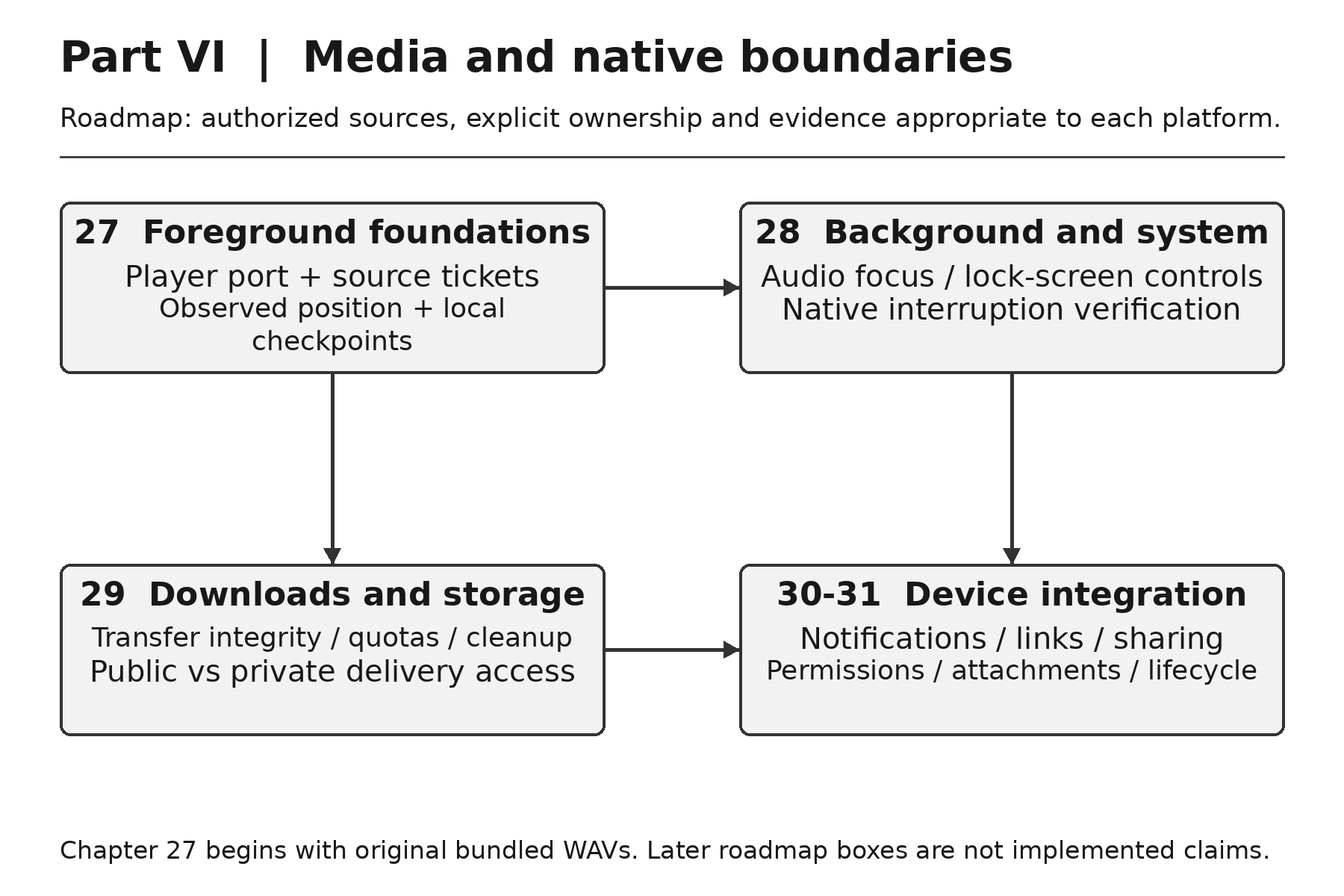
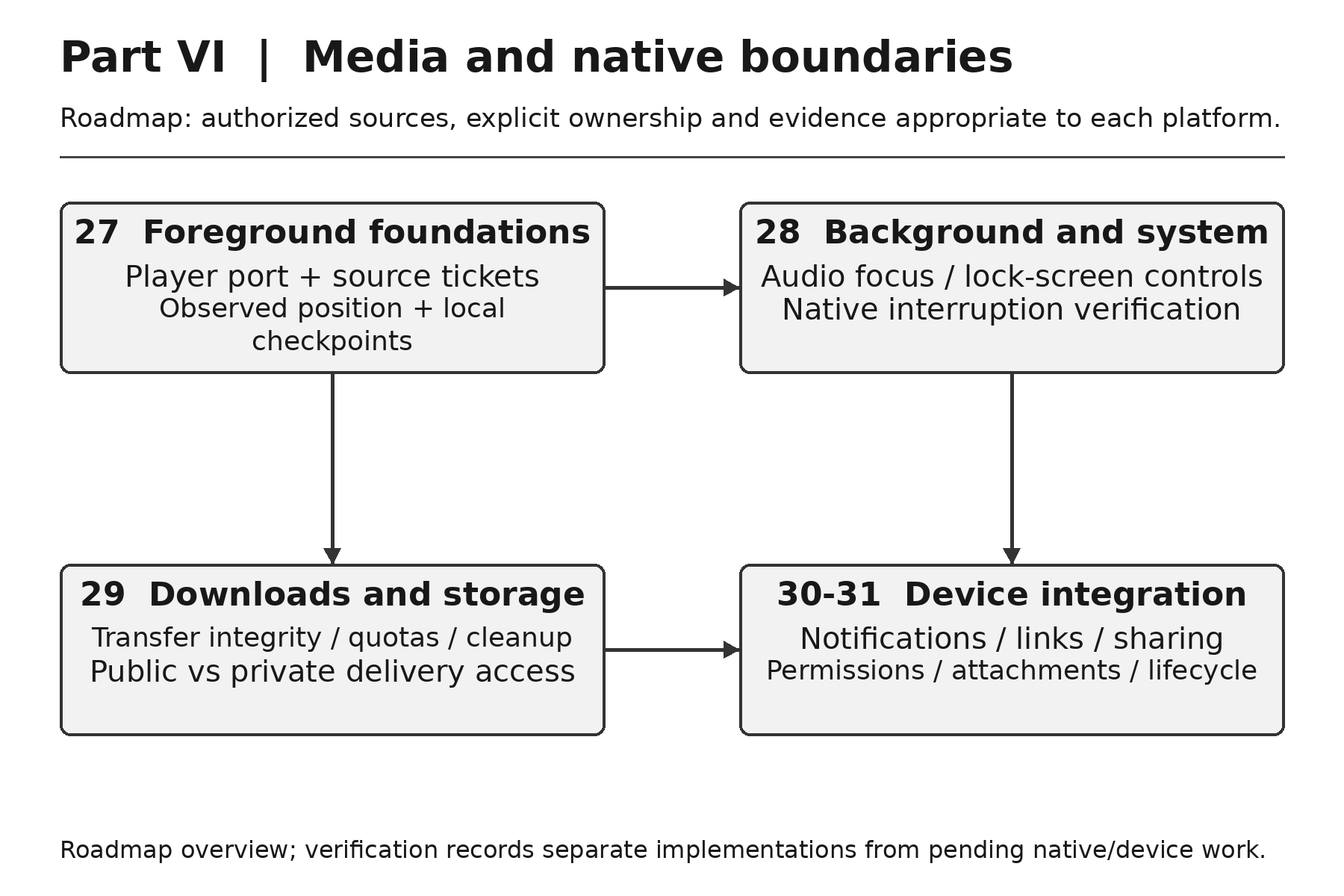
Draft Chapter 29 downloads and media storage with verification workflow

Changed region(s): [[0.0311, 0.925, 0.9333, 0.9558]]

diff --git a/production/render_opening.py b/production/render_opening.py
@@ -144,8 +144,8 @@ story=[Spacer(1,84),Paragraph('Building Mobile Apps<br/>with C# 15',styles['h1']
 toc=TableOfContents()
 toc.levelStyles=[ParagraphStyle('toc',fontName='Head',fontSize=10.5,leading=12,spaceBefore=0)]
 story.extend([Paragraph('Contents',styles['h1']),toc,PageBreak()])
-story.extend(markdown('# About This Draft\n\nThis specimen uses the selected Source Serif 4, Source Sans 3, and Source Code Pro fonts. It demonstrates the 8 × 10 page, 11-point body text, 9.5-point code, a generous binding margin, and new-page starts for major divisions.\n\nIncluded: preface, reader orientation, introduction, Parts I and II with original illustrations, the Part III introduction, Part IV with an authored planning diagram, and Chapters 1–28, with twenty-three authored architecture/workflow figures and visual recaps. Actual app screenshots remain pending native capture. Chapters 1–28 now have an initial instructional revision with learning outcomes, guided work and chapter summaries. These are still editorial drafts, and not all demonstrations have been exercised on devices. Device checks remain separate from compilation. The full book retains its planned 40 chapters and complete front and back matter.\n\nEarlier source revisions passed portable tests and Android compilation on Windows CI. The latest companion CI evidence is recorded in docs/verification.md and planning/progress.md; this print proof is independent of source compilation. Chapter 14–18 source adds detail journeys, request forms, pricing, simulated submission, bounded public-catalog HTTP reads, and a local companion API. Chapter 20 adds a portable offline catalog policy and durable refresh intent; native browser wiring and OS job registration remain pending. Chapter 21 adds a two-replica SQLite synchronization lab with a simulated in-memory server; real identity and native synchronization remain pending. Part V and Chapter 22 introduce a provider SDK and optional Account page, with no configured tenant; live identity-provider and native round trips remain pending. Chapter 23 adds a secure-session lab and independently authorized API read with signed-token test fixtures; live session/storage behavior remains pending. Chapter 24 adds a provider-supported MFA/recovery configuration lab and acceptance worksheet; live enrollment, recovery and factor replacement remain pending. Chapter 25 adds an isolated SQLite profile/lifecycle lab with simulated service receipts; native account composition and remote export/deletion remain pending. Chapter 26 adds a focused threat register and protected-read identifier, cache, rate-budget and decision-event checks; native/deployment security review remains pending. Part VI and Chapter 27 add a foreground audio lab with original WAV fixtures and local checkpoints; native listening, seeks and lifecycle observations remain pending. Chapter 28 adds an opt-in background audio lab, native focus/session configuration and system-control observations; Mac compilation and device acceptance remain pending. Current build and test results are recorded in the companion verification log; device checks remain separate. Emulator/physical-device launch and iOS compilation remain unverified.\n\nCopyright 2026 John F. Gnazzo. All rights reserved. Publication date, ISBNs, final legal notices, dedication, acknowledgments, and author biography will be completed during production.'))
-for rel in ['front-matter/preface.md','front-matter/how-to-use-this-book.md','front-matter/introduction.md','parts/part-01/introduction.md','chapters/ch01-mobile-landscape.md','chapters/ch02-defining-gnazzos-world.md','chapters/ch03-windows-environment.md','chapters/ch04-first-application.md','chapters/ch05-testable-foundations.md','parts/part-02/introduction.md','chapters/ch06-xaml-layouts-resources.md','chapters/ch07-bindings-commands-mvvm.md','chapters/ch08-navigation-state.md','chapters/ch09-collections-images-reuse.md','chapters/ch10-accessibility-localization.md','chapters/ch11-adaptive-layouts.md','parts/part-03/introduction.md','chapters/ch12-catalog-models.md','chapters/ch13-search-filters-favorites.md','chapters/ch14-content-details-samples-links.md','chapters/ch15-custom-song-request.md','chapters/ch16-pricing-reliable-submission.md','parts/part-04/introduction.md','chapters/ch17-http-resilient-networking.md','chapters/ch18-companion-aspnet-core-api.md','chapters/ch19-local-storage-migrations.md','chapters/ch20-offline-background-work.md','chapters/ch21-synchronization-conflicts.md','parts/part-05/introduction.md','chapters/ch22-native-authentication.md','chapters/ch23-sessions-storage-authorization.md','chapters/ch24-mfa-recovery.md','chapters/ch25-profiles-privacy-lifecycle.md','chapters/ch26-threat-modeling-security.md','parts/part-06/introduction.md','chapters/ch27-audio-playback-progress.md','chapters/ch28-background-system-controls.md']:
+story.extend(markdown('# About This Draft\n\nThis specimen uses the selected Source Serif 4, Source Sans 3, and Source Code Pro fonts. It demonstrates the 8 × 10 page, 11-point body text, 9.5-point code, a generous binding margin, and new-page starts for major divisions.\n\nIncluded: preface, reader orientation, introduction, Parts I and II with original illustrations, the Part III introduction, Part IV with an authored planning diagram, and Chapters 1–29, with twenty-four authored architecture/workflow figures and visual recaps. Actual app screenshots remain pending native capture. Chapters 1–29 now have an initial instructional revision with learning outcomes, guided work and chapter summaries. These are still editorial drafts, and not all demonstrations have been exercised on devices. Device checks remain separate from compilation. The full book retains its planned 40 chapters and complete front and back matter.\n\nEarlier source revisions passed portable tests and Android compilation on Windows CI. The latest companion CI evidence is recorded in docs/verification.md and planning/progress.md; this print proof is independent of source compilation. Chapter 14–18 source adds detail journeys, request forms, pricing, simulated submission, bounded public-catalog HTTP reads, and a local companion API. Chapter 20 adds a portable offline catalog policy and durable refresh intent; native browser wiring and OS job registration remain pending. Chapter 21 adds a two-replica SQLite synchronization lab with a simulated in-memory server; real identity and native synchronization remain pending. Part V and Chapter 22 introduce a provider SDK and optional Account page, with no configured tenant; live identity-provider and native round trips remain pending. Chapter 23 adds a secure-session lab and independently authorized API read with signed-token test fixtures; live session/storage behavior remains pending. Chapter 24 adds a provider-supported MFA/recovery configuration lab and acceptance worksheet; live enrollment, recovery and factor replacement remain pending. Chapter 25 adds an isolated SQLite profile/lifecycle lab with simulated service receipts; native account composition and remote export/deletion remain pending. Chapter 26 adds a focused threat register and protected-read identifier, cache, rate-budget and decision-event checks; native/deployment security review remains pending. Part VI and Chapter 27 add a foreground audio lab with original WAV fixtures and local checkpoints; native listening, seeks and lifecycle observations remain pending. Chapter 28 adds an opt-in background audio lab, native focus/session configuration and system-control observations; Mac compilation and device acceptance remain pending. Chapter 29 adds a verified public-download lab, explicit range resume, storage budgets and a fixed range-capable API fixture; native TLS/storage acceptance and private delivery access remain pending. Current build and test results are recorded in the companion verification log; device checks remain separate. Emulator/physical-device launch and iOS compilation remain unverified.\n\nCopyright 2026 John F. Gnazzo. All rights reserved. Publication date, ISBNs, final legal notices, dedication, acknowledgments, and author biography will be completed during production.'))
+for rel in ['front-matter/preface.md','front-matter/how-to-use-this-book.md','front-matter/introduction.md','parts/part-01/introduction.md','chapters/ch01-mobile-landscape.md','chapters/ch02-defining-gnazzos-world.md','chapters/ch03-windows-environment.md','chapters/ch04-first-application.md','chapters/ch05-testable-foundations.md','parts/part-02/introduction.md','chapters/ch06-xaml-layouts-resources.md','chapters/ch07-bindings-commands-mvvm.md','chapters/ch08-navigation-state.md','chapters/ch09-collections-images-reuse.md','chapters/ch10-accessibility-localization.md','chapters/ch11-adaptive-layouts.md','parts/part-03/introduction.md','chapters/ch12-catalog-models.md','chapters/ch13-search-filters-favorites.md','chapters/ch14-content-details-samples-links.md','chapters/ch15-custom-song-request.md','chapters/ch16-pricing-reliable-submission.md','parts/part-04/introduction.md','chapters/ch17-http-resilient-networking.md','chapters/ch18-companion-aspnet-core-api.md','chapters/ch19-local-storage-migrations.md','chapters/ch20-offline-background-work.md','chapters/ch21-synchronization-conflicts.md','parts/part-05/introduction.md','chapters/ch22-native-authentication.md','chapters/ch23-sessions-storage-authorization.md','chapters/ch24-mfa-recovery.md','chapters/ch25-profiles-privacy-lifecycle.md','chapters/ch26-threat-modeling-security.md','parts/part-06/introduction.md','chapters/ch27-audio-playback-progress.md','chapters/ch28-background-system-controls.md','chapters/ch29-downloads-media-storage.md']:
     story.append(PageBreak());story.extend(markdown((ROOT/rel).read_text(),ROOT/rel))
 doc.multiBuild(story)
 print(OUT)

diff --git a/production/draw_editorial_figures.py b/production/draw_editorial_figures.py
@@ -238,7 +238,7 @@ f.arrow([(810,385),(990,385)])
 f.arrow([(445,500),(445,755)])
 f.arrow([(1355,500),(1355,755)])
 f.arrow([(810,870),(990,870)])
-f.note('Chapter 27 begins with original bundled WAVs. Later roadmap boxes are not implemented claims.');f.save('fig-part06-media-roadmap')
+f.note('Roadmap overview; verification records separate implementations from pending native/device work.');f.save('fig-part06-media-roadmap')
 
 f=Figure('27.1  A source owns its observations','Current item ID is not enough: returning A -> B -> A still requires a fresh ticket.')
 f.box(80,270,730,230,'Select a fresh ticket',('Clear previous duration and position','Unavailable entry never opens'))
@@ -260,4 +260,14 @@ f.arrow([(1355,500),(1355,755)],'if retained',1380,600)
 f.arrow([(990,870),(810,870)],'release',815,1010)
 f.arrow([(445,500),(445,755)])
 f.note('Return never issues Load or Play. Native focus recovery and interruption behavior need device evidence.');f.save('fig-28-background-ownership')
+f=Figure('29.1  Receive is not publish','Only a complete representation matching the trusted descriptor becomes available.')
+f.box(80,270,730,230,'Trusted public descriptor',('Identity / origin / revision / hash','Budget complete + partial storage'))
+f.box(990,270,730,230,'Receive into .part',('Resume: validate Range + If-Range','Full 200: truncate; never append'))
+f.box(990,755,730,230,'Verify complete content',('Exact length + SHA-256','Mismatch: remove partial'))
+f.box(80,755,730,230,'Promote to available',('Rename within dedicated cache folder','Rehash before reporting a cache hit'))
+f.arrow([(810,385),(990,385)],'explicit action',805,295)
+f.arrow([(1355,500),(1355,755)],'complete',1380,600)
+f.arrow([(990,870),(810,870)],'match',825,1010)
+f.arrow([(445,755),(445,500)],'recheck',100,600)
+f.note('Cancel/interruption may retain a partial. Cache can be evicted. Private deliveries are rejected.');f.save('fig-29-download-promotion')
 print('Created',len(list(OUT.glob('*.png'))),'authored figures')

diff --git a/chapters/ch29-downloads-media-storage.md b/chapters/ch29-downloads-media-storage.md
@@ -1,0 +1,169 @@
+# Chapter 29
+# Downloads and Media Storage
+
+A Minnesota Bob listener wants an episode available before a trip north. The transfer reaches 70 percent when the connection disappears. On the next launch, Gnazzo's World should distinguish a useful partial file from a complete download, resume only the same representation and avoid advertising corrupt audio as ready to play.
+
+A different customer is waiting for a private anniversary song. That file has different access, storage and deletion requirements. Putting both files in a folder named Downloads would not establish authorization. We will implement the public case completely within a bounded teaching lab, then identify the additional boundaries a private delivery needs.
+
+Chapter 28 separated native playback lifetime from window visibility. Download lifetime needs the same discipline: bytes arriving, bytes stored, bytes verified and media available are different states. An HTTP success code or a progress bar reaching 100 percent cannot substitute for a verified local file.
+
+## What You'll Learn
+
+1. Build a foreground download that supports cancellation and explicit restart.
+2. Resume a matching representation with Range and If-Range, validating the response before appending.
+3. Derive safe storage names and verify exact length and SHA-256 before promotion.
+4. Apply a public-cache quota, available-space reserve and explicit deletion policy.
+5. Separate anonymous public samples from authenticated, account-owned customer deliveries.
+
+**Prerequisites:** Chapters 17–20 and 27–28. Use the SDK and source revision recorded in `docs/verification.md`. Native HTTPS reachability and certificate trust require device setup; no certificate-validation bypass is included. iOS compilation remains a separate Mac task.
+
+**What you will build:** `PublicMediaAsset`, `PublicMediaDownloader`, a native `DownloadLabPage`, a range-capable public API route and portable/API tests. Home opens the download lab. The original ten-second chime WAV is its only distribution fixture. The sample performs explicit foreground transfers, stores public cache files and reports verified availability. It does not automatically feed downloaded paths into the Chapter 27 player, implement OS background transfers or deliver private customer files.
+
+## 29.1 Decide what a download promises
+
+The public lab stores data beneath `FileSystem.Current.CacheDirectory`, in its own `public-media-v1` folder. This is replaceable data. The operating system may clear it, so every availability check handles absence and revalidates content. A future “keep this episode offline” product promise may require a different durable storage location, user-visible retention policy and backup decisions.
+
+`AppDataDirectory` and cache storage are not interchangeable product requirements. Moving bytes to a more durable folder does not supply encryption, cross-account isolation or reliable recovery. Likewise, a playback foreground service does not become an arbitrary download scheduler. This chapter cancels transfers when the native lab disappears or its window stops. Returning does not restart them; the listener chooses Download again.
+
+The central invariant is small: only an exact-length, hash-verified file may be returned as available. A `.part` file can be useful for restart, but it is never returned as playable media. The client also rehashes an existing final file before reporting a cache hit, rather than trusting a filename left by an earlier process.
+
+![Figure 29.1. Partial bytes remain separate from available media. Only a complete representation with the trusted length and hash is promoted.](../assets/figures/fig-29-download-promotion.png)
+
+The diagram describes this library's publication rule, not a filesystem power-loss guarantee. Renaming within one directory prevents normal readers from seeing an in-progress final file. Storage hardware, filesystem recovery and OS cache eviction can still change what survives. Revalidation is part of the promise.
+
+## 29.2 Start with a trusted descriptor
+
+`PublicMediaAsset` accepts a bounded ID and revision, one fixed HTTPS URI, a length up to 8 MiB and a lowercase SHA-256 value. It rejects credentials, query strings and fragments. The teaching composition supplies this descriptor from code; it does not fetch a manifest from an untrusted location and call its contents trusted.
+
+For this fixture, `PublicDownloadFixture.At` combines the configured origin with the fixed `/api/v1/media/timing` path. The length is 160044 bytes and the expected hash comes from the original resource manifest. The native UI asks for a trusted development origin, not a customer file URL. The HTTP client sends no account credential and production transport disables redirects and automatic decompression.
+
+A hash detects content that differs from the trusted descriptor. It does not establish who authorized a download. If an attacker can replace both a file and its expected hash, a successful hash comparison does not restore trust. For a real catalog, establish how descriptors are delivered, versioned and authorized before adding transfer code.
+
+The local filename is another boundary. Neither the URL's filename nor `Content-Disposition` determines it. `StorageKey` hashes the complete descriptor identity: ID, revision, source URI, expected length and expected content hash. The library adds only a fixed `.part` or `.wav` extension beneath its own folder. Names such as `../delivery.wav` never become filesystem paths.
+
+Including origin and revision also prevents accidental reuse of one server's partial when the developer changes environments. This is identity separation, not encryption. Someone with access to this public cache can read its original timing file; private deliveries must not enter it.
+
+## 29.3 Understand resume before writing the append
+
+A request for bytes starting at offset N can receive several meaningful responses. The client must inspect them before opening the output file for append.
+
+| Response | Required client decision |
+| --- | --- |
+| 206 Partial Content | Append only if range start/end/total, length, strong ETag, encoding and media type match the trusted representation |
+| 200 OK | A supported full representation replaces/truncates the partial; never append its complete body |
+| 416 Range Not Satisfiable | Discard the unusable partial and require an explicit fresh retry |
+| Redirect or other error | Fail visibly; do not reinterpret it as audio |
+
+On resume, the client sends `Range: bytes=N-` and `If-Range` with the descriptor's strong ETag. If the server cannot satisfy that validator, it may return the complete representation. Our client still requires the response ETag to equal the trusted descriptor. A genuinely changed representation therefore needs a new trusted descriptor; the response cannot silently rewrite our expected identity.
+
+For an accepted 206, `Content-Range` must begin at the existing partial length, end at expected length minus one and report that same expected total. `Content-Length` must equal the remaining bytes. The sample requires `audio/wav` and identity encoding, keeping byte offsets tied to the actual stored representation.
+
+```csharp
+if (offset > 0)
+{
+    request.Headers.Range = new RangeHeaderValue(offset, null);
+    request.Headers.IfRange = new RangeConditionHeaderValue(
+        new EntityTagHeaderValue(asset.ETag));
+}
+```
+
+These headers request a condition; they do not prove that it was honored. Read the validation branch in `PublicMediaDownloader.DownloadAsync` beside this excerpt. An unexpected range or validator causes an integrity/protocol failure and removes the partial. There is no automatic retry loop that repeatedly consumes bandwidth or hides a changed server representation.
+
+## 29.4 Serve one real range-capable resource
+
+The companion API embeds the original WAV as `PublicTiming.wav`. The route accepts GET and HEAD at one fixed path and returns `Results.File` with `enableRangeProcessing: true` and the fixture's strong ETag. ASP.NET Core owns HTTP range processing; the application does not hand-parse arbitrary Range syntax into file offsets.
+
+```csharp
+return Results.File(stream, "audio/wav",
+    enableRangeProcessing: true,
+    entityTag: new EntityTagHeaderValue(
+        "\"" + PublicDownloadFixture.Hash + "\""));
+```
+
+The stream comes from an assembly resource, not a path supplied by the requester. There is no private-delivery identifier, upload route or customer file lookup. The server ETag is tied to the expected fixture hash; API tests read the served body and independently verify that its actual hash and length agree.
+
+Integration tests exercise a real 206 slice, a changed If-Range yielding full 200, an unsatisfiable range yielding 416 and a HEAD response without a media body. Another test runs the actual downloader against the ASP.NET server pipeline, cancels after receiving bytes, creates a new downloader over the same folder and verifies a successful range resume.
+
+The Kestrel smoke adds a separate layer: real loopback HTTP transport, a full-body hash and a byte-for-byte comparison of a selected slice. That evidence does not prove HTTPS certificate trust or native networking. A test server, loopback socket and physical phone answer different questions.
+
+## 29.5 Keep partials useful without treating them as complete
+
+At the start of an explicit transfer, the downloader checks a final file first. A valid final needs no network request. A corrupt final is not reported as available and can be replaced by a fresh verified transfer.
+
+Next it examines the partial for this descriptor. An oversized partial is discarded. A partial exactly as long as the expected representation is rehashed: if correct, it can be promoted without another request. This covers interruption after the last write but before publication. If its hash is wrong, it is discarded and this explicit operation starts from zero.
+
+For a shorter partial, the file length is the restart offset. No separate saved percentage can disagree with it. The deterministic descriptor key supplies the representation identity; there is no mutable sidecar manifest to update after every buffer. A prefix corrupted on disk can still receive a matching suffix, but the final complete-file hash will reject the combination.
+
+The streaming loop counts actual bytes. A lying `Content-Length` cannot make it write indefinitely: if the next buffer would exceed the trusted total, the operation fails and removes the partial. An early end or a transport exception can leave a useful prefix. Cancellation also retains whatever useful bytes reached the file; none is advertised as available until verification succeeds.
+
+The transfer deadline covers the response and streaming body through a linked token. The native Cancel button, page departure and window stop use cancellation too. A status message says a partial *may* remain because exact timing affects whether any bytes were written. Restart is always an explicit action.
+
+After output closes, the client verifies the complete hash, checks cancellation again and renames the partial to its final name. Reading progress and verifying integrity are separate phases. The UI's received-byte display deliberately says that integrity verification is still required.
+
+## 29.6 Budget storage before asking for more bytes
+
+The default folder quota is 4 MiB. It includes both complete and partial files; abandoned transfers are not free. The lab refuses another operation when it cannot fit the expected completed representation alongside the other retained entries. It does not silently evict a listener's previous download to make the new request appear successful.
+
+For a current partial of N bytes, the projected logical usage is existing folder usage minus N plus the asset's expected length. Available disk space must cover the remaining bytes plus a 64 KiB reserve. The complete representation's 8 MiB descriptor limit and the 4 MiB default folder quota are separate limits: a syntactically valid larger descriptor can still be rejected by the configured storage budget.
+
+A free-space check is not a reservation. Another application can consume storage immediately after it passes, and a write can still fail. Such failure must not create a verified availability claim. The portable low-space tests inject an available-byte result to exercise the policy deterministically; physical filesystem behavior remains a device acceptance case.
+
+One downloader instance serializes transfer, verification and deletion with a semaphore. Native dependency injection registers that instance once for the dedicated cache folder. Deletion requested during a transfer waits for the operation rather than removing a file that is still being written. The class does not provide cross-process or multiple-instance locking for the same folder. Composition must stop and await operations before disposing it.
+
+Delete removes only the final and partial derived from the selected descriptor. Changing origins or revisions creates different keys, so a production library needs an inventory and explicit cleanup policy for old entries. This lab intentionally has one selected fixture and no general cache browser. The quota failure message tells the reader to delete an entry or partial explicitly; it does not imply that all orphan management is already implemented.
+
+## 29.7 Keep private delivery access out of the public cache
+
+The public descriptor constructor rejects `MediaAccess.PrivateDelivery`. This is a useful implemented boundary: no account token is accidentally attached to a public fixture request, and a private descriptor cannot select this anonymous storage path. It is not a completed private-download feature.
+
+For the anniversary-song customer, a future server must authorize the validated account's access to that specific delivery. A signed or expiring URL may represent a temporary capability, but it does not decide local retention, account switching or what happens when a late transfer completes after sign-out.
+
+Carry forward the account-operation lessons from Chapters 23–26. A private transfer needs owner-scoped storage, an operation lease checked before publication, bounded credential renewal, cancellation and late-result fencing, revocation/deletion behavior and a deliberate backup/encryption policy. Lock-screen metadata and sharing introduce additional exposure. A public cache key containing a hash supplies none of those protections.
+
+Do not “test” this future design by pasting real customer links into the public lab. Its query-free descriptor rejects common signed-URL shapes deliberately. Use synthetic records in a separately authorized integration when implementing private delivery later.
+
+## 29.8 Guided Lab: interrupt, restart and verify
+
+1. Run the portable tests and the API tests using the pinned SDK. Read the exact executed revision in `docs/verification.md`; test names distinguish simulated transport/space conditions from the actual ASP.NET range pipeline.
+2. Start the API with its documented HTTPS development profile. Fetch the public timing resource and inspect its length, type and strong ETag. Issue a bounded Range request with matching If-Range and verify the returned slice, not just status 206.
+3. Open Home, then Public media download lab. Configure a trusted reachable HTTPS origin. On a device, localhost refers to that device. Configure networking and supported certificate trust; never disable certificate validation to turn a failure into a pass.
+4. Download and verify the stored fixture again. No automatic playback should occur. Repeat Download and confirm a verified cache hit needs no second transfer.
+5. Cancel during a transfer, leave the page and stop the window in separate experiments. On return, choose Download explicitly. Inspect the requested Range/If-Range and confirm final verification. The small fixture may finish too quickly for manual cancellation; use the deterministic interrupted-transfer tests and appropriate development network throttling rather than claiming an unobserved interruption.
+6. Delete the selected final and partial, then retry. Corrupt a file only in a disposable development cache and verify it is not reported as available. Test quota rejection and low-space policy; do not fill a personal device to exhaustion merely to create a screenshot.
+7. Record cache eviction, process restart, TLS failure, wrong origin and actual filesystem failures on Android and iPhone separately. Mark unexecuted rows pending in `docs/download-lab.md`.
+
+For each native observation, record source revision, model/OS, API origin and TLS setup, free-space conditions, steps, expected result, actual result and evidence. A body hash on a workstation does not establish decoder compatibility or audible playback on the phone.
+
+## 29.9 Troubleshooting by transfer phase
+
+**Resume doubles the file.** Inspect the status branch. A full 200 response must truncate; only a validated matching 206 can append. Percentage arithmetic cannot fix a framing error.
+
+**The progress bar reaches 100 percent, but no download is available.** Read the hash/promotion outcome. All bytes may have arrived while the content was wrong, cancellation occurred or the local rename failed.
+
+**Every retry receives 416.** Check the partial length and representation identity. This implementation discards that partial and requires an explicit fresh attempt. Repeated automatic retries would conceal the boundary.
+
+**Quota fails although the complete file would fit alone.** Count partials and other retained descriptors. Logical quota covers the folder, not just the selected item. Explicit cleanup is a user decision.
+
+**The phone cannot reach the API.** Separate device address resolution, HTTPS certificate trust and API behavior. A successful loopback HTTP smoke does not configure a phone's trust store.
+
+**A private link is rejected.** The public fixture client is enforcing its scope. Implement a separately authenticated delivery boundary; do not remove descriptor checks or attach account tokens to arbitrary origins.
+
+## Chapter Summary
+
+A reliable download distinguishes received bytes from verified available media. The lab uses a trusted public descriptor, safe derived filenames and a separate partial file. Resume requests carry Range and a strong If-Range validator; append is permitted only after exact response validation, while a supported full response truncates. The client bounds actual reads, verifies complete length and hash, and promotes only verified content. Cancellation and transport interruption can retain a useful prefix for explicit restart. Storage policy counts partials, applies a quota and reserves free space without promising physical capacity. The public cache remains replaceable and anonymous; private delivery descriptors are rejected. Portable files, simulated failures, API range processing and loopback transport provide complementary evidence, with native TLS, filesystem and eviction checks still pending.
+
+## Exercises
+
+**Worked exercise — a server ignores Range.** A 12000-byte partial exists, and the server returns a matching full 200 representation. Which file mode is correct? Create/truncate, because the body starts at byte zero. Appending would produce an oversized corrupt file. The test `Full_200_response_to_resume_truncates_instead_of_appending` verifies the correct behavior with actual temporary files.
+
+**Independent exercise — storage inventory.** Design an inventory that exposes retained public revisions and partials, supports explicit cleanup and coordinates with the same single writer. Specify recovery when a file disappears before deletion. Do not infer verified availability from the inventory row alone.
+
+**Independent exercise — durable offline promise.** Design “keep this episode offline” separately from this cache. Explain location, quotas, backup behavior, removal, migration and what the UI says when OS or storage failure removes it.
+
+**Independent exercise — private customer delivery.** Trace authorization, transfer and publication for account A followed by sign-out and activation of B. Identify the server decision, local partition and lease that prevent A's late completion from appearing in B's library. Use synthetic data and leave unimplemented service/device gates explicit.
+
+## References and Source Walkthrough
+
+Read `Downloads/PublicMediaDownload.cs` with `DownloadTests.cs`, then `DownloadLabPage`, the fixed API route and `MediaDownloadApiTests.cs`. `eng/Smoke-Api.ps1` verifies the real loopback representation and slice. `docs/download-lab.md` contains the protocol contract and pending device worksheet.
+
+Primary references: HTTP semantics and byte ranges at https://www.rfc-editor.org/rfc/rfc9110; ASP.NET Core file results at https://learn.microsoft.com/en-us/dotnet/api/microsoft.aspnetcore.http.results.file; MAUI storage locations at https://learn.microsoft.com/en-us/dotnet/maui/platform-integration/storage/file-system-helpers. Consult the installed SDK's signatures and current platform requirements when applying these APIs.

diff --git a/planning/instructional-audit.md b/planning/instructional-audit.md
@@ -65,3 +65,13 @@ acceptance sequence, boundary-specific troubleshooting, 124-word summary, one wo
 cancellation exercise and three independent extensions. The separate sample preserves
 Chapter 27's foreground behavior. Native listening, system controls, interruptions,
 routes, power behavior and iOS compilation remain pending; this is an initial draft.
+
+## Chapter 29 initial instructional revision
+
+Added five learning outcomes, concrete public/private journeys, a publication diagram,
+explained HTTP/file-result excerpts, 200/206/416 decision table, storage formulas,
+guided interruption/restart/verification, troubleshooting, 124-word summary and one
+worked plus three independent exercises. Source includes native foreground controls,
+portable real-file tests, actual API range integration and a loopback byte/hash smoke.
+The sample explicitly rejects private delivery descriptors; it does not claim an
+account-authorized customer delivery or completed native/TLS acceptance.

diff --git a/planning/editorial-visual-pass.md b/planning/editorial-visual-pass.md
@@ -115,3 +115,13 @@ It names the pinned toolkit's public native-view compatibility dependency rather
 than claiming an inaccessible player API. A guided device matrix, troubleshooting,
 124-word summary and worked/independent exercises separate portable policy evidence,
 merged-manifest/compile checks and still-pending Android/iPhone observations.
+
+## Chapter 29 application of the review
+
+The Minnesota Bob trip-north listening scenario distinguishes useful partial bytes
+from verified availability; the anniversary-song case motivates a separate private
+access boundary. Figure 29.1 explains range/receive/verify/promotion ordering. The
+chapter includes response decisions, exact source/API walkthrough, guided restart and
+TLS work, storage policy, troubleshooting, a 124-word summary and worked/independent
+exercises. Public data and simulated failure conditions are named honestly. Native
+screenshots, HTTPS/device storage behavior and iOS compilation remain pending.
